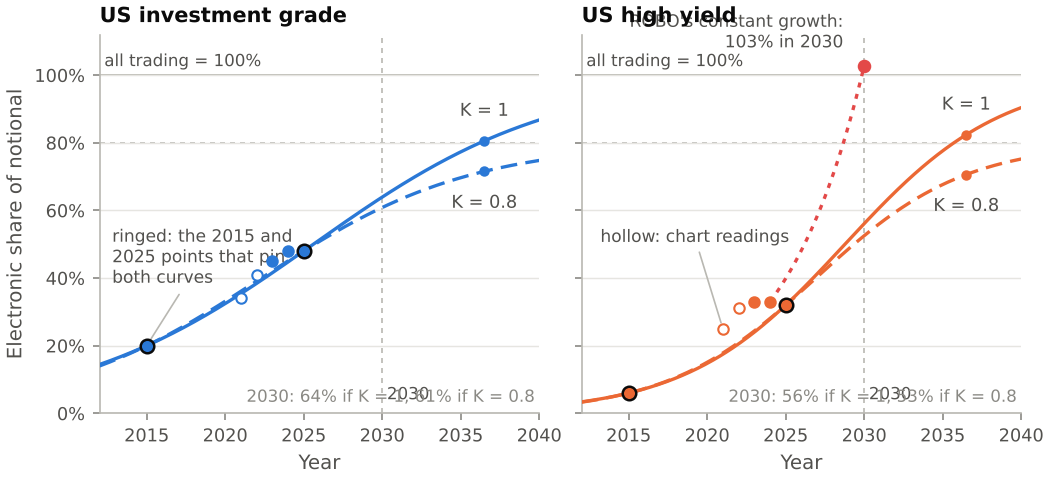
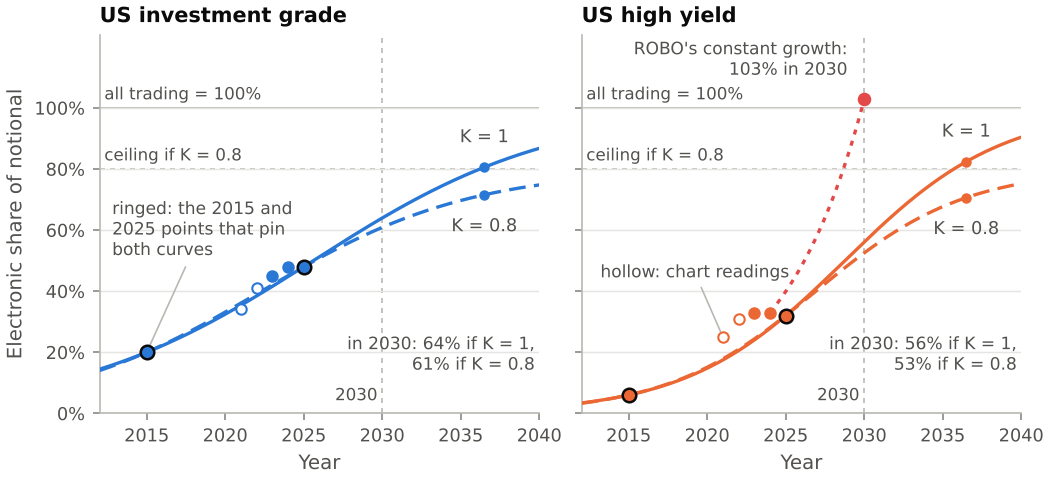
Snapshot: in-flight Edition 2 work
Claude-Session: https://claude.ai/code/session_01PHHQVL5vNoxjdDFeTkxsPq

diff --git a/tools/figures/ch02.py b/tools/figures/ch02.py
@@ -42,6 +42,11 @@ OLD_COST, NEW_COST = VIOLET, GREEN
 LEADER = dict(arrowstyle="-", color=NEUTRAL, linewidth=0.8, shrinkA=1, shrinkB=3)
 
 
+def matplotlib_fixed(days):
+    from matplotlib.ticker import FixedLocator
+    return FixedLocator([mdates.date2num(pd.Timestamp(x)) for x in days])
+
+
 def pct(x, _pos=None):
     return f"{100 * x:.0f}%"
 
@@ -78,7 +83,8 @@ def fig_trace_censoring_pareto():
         ax.set_xticks(ticks)
         ax.set_title(name)
         ax.set_xlabel("True trade size ($mm)")
-        note(ax, f"Pareto tail index α = {alpha:.2f} (below 2:\ninfinite variance)", loc="lower right")
+        ax.text(0.99, 0.19, f"Pareto tail index α = {alpha:.2f}\n(below 2: infinite variance)", transform=ax.transAxes,
+                ha="right", va="bottom", fontsize=8, color=INK_2)
         ax.yaxis.set_major_formatter(FuncFormatter(pct))
     axs[0].set_ylabel("Share of capped prints larger")
     return finish(fig, "ch02_trace_censoring_pareto")
@@ -125,8 +131,9 @@ def fig_adoption_ceiling():
         ax.axhline(1.0, color=NEUTRAL, linewidth=0.9, zorder=1)
         ax.text(2012.3, 1.015, "all trading = 100%", fontsize=8, color=INK_2, ha="left", va="bottom")
         ax.axhline(0.8, color=NEUTRAL, linewidth=0.8, linestyle=(0, (3, 3)), zorder=1)
+        ax.text(2012.3, 0.815, "ceiling if K = 0.8", fontsize=8, color=INK_2, ha="left", va="bottom")
         ax.axvline(2030, color=NEUTRAL, linewidth=0.8, linestyle=(0, (3, 3)), zorder=1)
-        ax.text(2030.3, 0.03, "2030", fontsize=8, color=INK_2, ha="left", va="bottom")
+        ax.text(2029.7, 0.03, "2030", fontsize=8, color=INK_2, ha="right", va="bottom")
         for K, ls in ((1.0, "-"), (0.8, (0, (5, 2.5)))):
             r, t0, _ = chk[(seg, K)]
             ax.plot(t, logistic(t, K, r, t0), color=col, linewidth=LW, linestyle=ls, zorder=3)
@@ -144,12 +151,14 @@ def fig_adoption_ceiling():
             ax.annotate(txt, (2036.5, y), xytext=(0, dy), textcoords="offset points", ha="center",
                         va="bottom" if dy > 0 else "top", fontsize=8.5, color=INK_2)
         ax.set_xlim(2012, 2040)
-        ax.set_ylim(0, 1.12)
+        ax.set_ylim(0, 1.24)
+        ax.set_yticks([0, 0.2, 0.4, 0.6, 0.8, 1.0])
         ax.set_xticks([2015, 2020, 2025, 2030, 2035, 2040])
         ax.set_title(name)
         ax.yaxis.set_major_formatter(FuncFormatter(pct))
         r1, r8 = chk[(seg, 1.0)][2], chk[(seg, 0.8)][2]
-        note(ax, f"2030: {100 * r1:.0f}% if K = 1, {100 * r8:.0f}% if K = 0.8", loc="lower right")
+        ax.text(0.99, 0.10, f"in 2030: {100 * r1:.0f}% if K = 1,\n{100 * r8:.0f}% if K = 0.8", transform=ax.transAxes,
+                ha="right", va="bottom", fontsize=8.2, color=INK_2)
         ax.set_xlabel("Year")
     axs[0].set_ylabel("Electronic share of notional")
     # ROBO's constant-growth rule, high yield only
@@ -157,12 +166,12 @@ def fig_adoption_ceiling():
     tr = np.linspace(2024, 2030, 60)
     ax.plot(tr, robo(tr), color=RED, linewidth=LW, linestyle=(0, (1.5, 2)), zorder=4)
     ax.plot([2030], [robo(2030)], "o", color=RED, markersize=5.5, zorder=6)
-    ax.annotate("ROBO's constant growth:\n103% in 2030", (2030, robo(2030)), xytext=(-10, 6),
+    ax.annotate("ROBO's constant growth:\n103% in 2030", (2030, robo(2030)), xytext=(-8, 9),
                 textcoords="offset points", ha="right", va="bottom", fontsize=8.2, color=INK_2)
     # note on the fitted points
-    axs[0].annotate("ringed: the 2015 and\n2025 points that pin\nboth curves", (2015, .20), xytext=(2012.8, 0.46),
+    axs[0].annotate("ringed: the 2015 and\n2025 points that pin\nboth curves", (2015, .20), xytext=(2012.8, 0.60),
                     textcoords="data", ha="left", va="center", fontsize=8.2, color=INK_2, arrowprops=LEADER)
-    axs[1].annotate("hollow: chart readings", (2021, .25), xytext=(2013.2, 0.52), textcoords="data",
+    axs[1].annotate("hollow: chart readings", (2021, .25), xytext=(2013.2, 0.46), textcoords="data",
                     ha="left", va="center", fontsize=8.2, color=INK_2, arrowprops=LEADER)
     return finish(fig, "ch02_adoption_ceiling")
 
@@ -185,11 +194,11 @@ def fig_rfq_neff():
     axl.text(12.4, 11.3, "independent dealers:\nn_eff = n", ha="left", va="center", fontsize=8.2, color=INK_2)
     for phi, col in shade.items():
         axl.plot(n, neff(n, phi), color=col, linewidth=LW, zorder=3)
-        axl.axhline(1 / phi, color=col, linewidth=0.8, linestyle=(0, (1.5, 2.5)), zorder=1)
+        axl.plot([0.5, 20], [1 / phi, 1 / phi], color=col, linewidth=0.8, linestyle=(0, (1.5, 2.5)), zorder=1)
         label_end(axl, 20, neff(20, phi), f"φ = {phi:g}", col, dx=5)
     axl.text(1.0, 10.15, "ceiling 1/φ = 10", fontsize=8, color=INK_2, ha="left", va="bottom")
-    axl.text(1.0, 4.15, "ceiling 1/φ = 4", fontsize=8, color=INK_2, ha="left", va="bottom")
-    axl.text(1.0, 2.37, "ceiling 1/φ = 2.2", fontsize=8, color=INK_2, ha="left", va="bottom")
+    axl.text(12.5, 4.15, "ceiling 1/φ = 4", fontsize=8, color=INK_2, ha="left", va="bottom")
+    axl.text(12.5, 2.35, "ceiling 1/φ = 2.2", fontsize=8, color=INK_2, ha="left", va="bottom")
     axl.plot([11], [2.0], "o", color=shade[0.45], markersize=6.5, zorder=6, markeredgecolor=INK, markeredgewidth=1.0)
     axl.annotate("Theo's 11 responders at\nφ = 0.45 are worth 2", (11, 2.0), xytext=(6.3, 0.62),
                  textcoords="data", ha="left", va="center", fontsize=8.2, color=INK_2, arrowprops=LEADER)
@@ -210,15 +219,15 @@ def fig_rfq_neff():
     assert abs(up0 - 2.0) < 1e-9 and abs(up45 - 1.085) < 0.001
     axr.text(11.2, 0.30, f"independent: halving the\nresponders doubles the\nbest quote's distance (×{up0:.1f})",
              ha="left", va="center", fontsize=8.2, color=INK_2)
-    axr.text(8.5, 0.74, f"φ = 0.45: it moves {100 * (up45 - 1):.0f}%,\nthe same θ and φ",
+    axr.text(8.5, 0.68, f"φ = 0.45: it moves {100 * (up45 - 1):.0f}%,\nthe same θ and φ",
              ha="left", va="center", fontsize=8.2, color=INK_2)
-    axr.annotate("9 Apr 2025: 13.2 to 6.6\nprices per RFQ", (n_lo, best(n_lo, 0)), xytext=(2.4, 0.05),
-                 textcoords="data", ha="left", va="bottom", fontsize=8.2, color=INK_2, arrowprops=LEADER)
+    axr.text(7.0, 0.93, "dots: 13.2 and 6.6 prices per RFQ\n(US high grade, 9 Apr 2025)", ha="left", va="center",
+             fontsize=8.2, color=INK_2)
     axr.set_xlim(0.5, 20)
     axr.set_ylim(0, 1.05)
     axr.set_xticks([1, 5, 10, 15, 20])
     axr.set_xlabel("Dealers responding, n")
-    axr.set_ylabel("Expected best quote ÷ θ (average quote distance)")
+    axr.set_ylabel("Expected best quote ÷ θ")
     return finish(fig, "ch02_rfq_neff")
 
 
@@ -248,11 +257,10 @@ def fig_data_exhaust_curve():
         to_star, a_star = peaks[c_bp]
         ax.plot([to_star, to_star], [0, a_star], color=col, linewidth=0.9, linestyle=(0, (3, 3)), zorder=3)
         ax.plot([to_star], [a_star], "o", color=col, markersize=6.5, zorder=6, markeredgecolor=INK, markeredgewidth=0.8)
-    ax.annotate("c = 12 bp: best is 4.0 turns a year,\n48 bp of net alpha", (4.0, 48.0), xytext=(7.0, 12),
+    ax.annotate("c = 12 bp: best is 4.0 turns,\n48 bp of net alpha", (4.0, 48.0), xytext=(4.7, 16),
                 textcoords="data", ha="left", va="center", fontsize=8.5, color=INK_2, arrowprops=LEADER)
     ax.annotate("c = 7.5 bp: best is 10.2 turns,\n77 bp of net alpha", (10.24, 76.8), xytext=(11.0, 108),
                 textcoords="data", ha="left", va="center", fontsize=8.5, color=INK_2, arrowprops=LEADER)
-    ax.plot([8.4], [12], "o", color=OLD_COST, markersize=0)       # (anchor for layout only; invisible)
     ax.annotate("", xy=(10.0, 70.5), xytext=(4.25, 51.0),
                 arrowprops=dict(arrowstyle="-|>", color=INK_2, linewidth=1.1, mutation_scale=9, shrinkA=0, shrinkB=0))
     ax.text(1.0, 98, "cutting the cost from 12 to 7.5 bp\nmultiplies the best turnover by 2.56\nand the net alpha by 1.6",
@@ -261,10 +269,6 @@ def fig_data_exhaust_curve():
     ax.set_ylim(-14, 175)
     ax.set_xlabel("Turnover (one-way turns of the book per year)")
     ax.set_ylabel("Alpha (bp per year)")
-    # direct labels for the two net-alpha curves, at the right edge
-    for c_bp, col, xx in ((12.0, OLD_COST, 16.2), (7.5, NEW_COST, 16.2)):
-        yy = (k * np.sqrt(xx) * 1e4) - c_bp * xx
-        label_end(ax, xx, yy, f"net, c = {c_bp:g} bp", col, dx=5, dy=-5 if c_bp == 12 else 5)
     note(ax, "k = 0.0048", loc="upper left")
     return finish(fig, "ch02_data_exhaust_curve")
 
@@ -297,7 +301,8 @@ def fig_two_shocks_timeline():
     for ax, (a, b), events, title, loc, fmt in (
             (axs[0], ("2020-02-18", "2020-07-31"), ev20, "March 2020", mdates.MonthLocator(), "%-d %b"),
             (axs[1], ("2025-03-31", "2025-05-14"), ev25, "April 2025",
-             mdates.DayLocator(bymonthday=[1, 8, 15, 22, 29]), "%-d %b")):
+             matplotlib_fixed(["2025-04-01", "2025-04-08", "2025-04-15", "2025-04-22", "2025-04-29", "2025-05-06",
+                               "2025-05-13"]), "%-d %b")):
         seg = s[(s.index >= a) & (s.index <= b)]
         ax.plot(seg.index, seg.values, color=IG, linewidth=LW, zorder=3)
         ax.set_xlim(d(a), d(b))

diff --git a/tools/figures/ch07.py b/tools/figures/ch07.py
@@ -81,7 +81,7 @@ def fig_ffd_weights():
     a.text(K04 * 1.08, 1.6e-6, f"lag {K04}", fontsize=8, color=INK_2, va="bottom", ha="left")
     for d, col in ds:
         label_end(a, n, np.abs(ffd_weights(d, n))[n], f"d = {d:g}", col, dx=5)
-    note(a, "d = 0.4 meets \u03c4 at lag 282:\nthe 280-day warm-up of section 7.3", loc="lower left")
+    note(a, "d = 0.4 meets \u03c4 at lag 282:\nthe 280-day warm-up", loc="lower left")
     a.set_xlim(1, 5000)
     a.set_ylim(1e-6, 2)
     a.set_xticks([1, 10, 100, 1000])
@@ -106,8 +106,8 @@ def fig_ffd_weights():
                arrowprops=dict(arrowstyle="-", color=MUTED, linewidth=0.7))
     for d, col in ds:
         s = np.cumsum(ffd_weights(d, n))
-        label_end(b, n, s[n], f"d = {d:g}", col, dx=5, dy=(4 if d == 0.6 else 0))
-    b.text(1.4, 0.03, "d = 1: nothing left after one lag", fontsize=8, color=INK_2, va="bottom", ha="left")
+        label_end(b, n, s[n], f"d = {d:g}", col, dx=5, dy={0.2: 0, 0.4: 9, 0.6: 3}[d])
+    b.text(1.4, 0.03, "d = 1: none left", fontsize=8, color=INK_2, va="bottom", ha="left")
     b.set_xlim(1, 5000)
     b.set_ylim(-0.04, 0.85)
     b.set_xticks([1, 10, 100, 1000])
@@ -249,9 +249,10 @@ def fig_purged_folds():
     b.text(L / 2, 25.5, "test block:\nset aside", fontsize=8, color=INK_2, ha="center", va="center")
     b.annotate("", xy=(T1, len(fs) - 0.2), xytext=(T1 + ETA, len(fs) - 0.2),
                arrowprops=dict(arrowstyle="<->", color=INK_2, linewidth=0.9, shrinkA=0, shrinkB=0))
-    b.text(T1 + ETA / 2, len(fs) + 0.15, "embargo η: the FFD window,\nabout 280 days at τ = 10⁻⁴", fontsize=8, color=INK_2,
-           ha="center", va="top")
-    b.set_ylim(len(fs) + 2.7, -2.2)
+    b.text(T1 + ETA / 2, len(fs) + 0.9, "embargo η: the FFD window,\nabout 280 days at τ = 10⁻⁴", fontsize=8, color=INK_2,
+           ha="center", va="top", zorder=6,
+           bbox=dict(facecolor="white", edgecolor="none", pad=1.5))
+    b.set_ylim(len(fs) + 7.6, -2.2)
     b.set_xlim(-46, 136)
     b.set_yticks([])
     b.set_xticks([-40, 0, 40, 80, 120])
@@ -300,7 +301,7 @@ def fig_dsr_noise_max():
     ax.plot(Ns, curve, color=C_FIX, zorder=3)
     ax.plot(sim_N, sim, "o", color=INK_2, markersize=5, markerfacecolor="white", markeredgewidth=1.2, zorder=4)
     ax.set_axisbelow(True)
-    ax.text(2.4, 0.04, "what pure noise delivers\nbefore the model has done anything", fontsize=8.5, color=INK_2,
+    ax.text(4.0, 0.04, "what pure noise delivers\nbefore the model has done anything", fontsize=8.5, color=INK_2,
             ha="left", va="bottom")
 
     for n, txt, xt, yt, ha in [(400, "N = 400 effectively distinct trials", 360, 0.27, "right"),
@@ -321,8 +322,8 @@ def fig_dsr_noise_max():
     ax.xaxis.set_major_formatter(FuncFormatter(lambda v, _: f"{v:,.0f}"))
     ax.set_xlabel("Number of trials N (log scale)")
     ax.set_ylabel("Expected best Sharpe of pure noise\n(annualized)")
-    ax.text(0.99, 0.02, "T = 240 months; true Sharpe 0 for every trial; open dots: simulated mean of the maximum",
-            transform=ax.transAxes, ha="right", va="bottom", fontsize=7.5, color=MUTED)
+    ax.text(0.99, 0.98, "T = 240 months; every trial has true Sharpe 0.\nOpen dots: simulated mean of the maximum.",
+            transform=ax.transAxes, ha="right", va="top", fontsize=8, color=MUTED)
     print("dsr: SR*(3000) %.3f/month %.3f annualized; SR*(400) %.3f; sim dots %s | formula at sim_N %s" % (
         sr_star(3000, T), sr_star(3000, T) * ann, sr_star(400, T), [round(s, 3) for s in sim],
         [round(float(sr_star(n, T)) * ann, 3) for n in sim_N]))
@@ -337,8 +338,8 @@ def fig_reversal_gap():
     # (state/research/papers_factor_replication_crisis_and_bond_data.md section 3.2).
     prem = [-0.99, -0.09, -0.17]
     tstat = [-4.46, -0.51, None]
-    names = ["Month-end price in\nsignal and return", "Signal gap\n(signal 1–10 days earlier)",
-             "Return gap\n(month-begin start)"]
+    names = ["Textbook:\nmonth-end price\nin both", "Signal gap:\nsignal 1\u201310 days\nbefore month-end",
+             "Return gap:\nreturn starts at\nmonth-begin"]
     cols = [C_NAIVE, C_FIX, C_FIX]
 
     fig, (a, b) = new_figure("wide", ncols=2, gridspec_kw={"width_ratios": [1.35, 1]})

diff --git a/tools/figures/ch03.py b/tools/figures/ch03.py
@@ -5,8 +5,8 @@ Run:  python3 tools/figures/ch03.py [name ...]   -> assets/figures/ch03_*.png   
   1. ch03_mixture_vs_gaussian    the three-scenario mixture of 3.1.2 against a normal with the same mean and sd
   2. ch03_gm_half_spread         the asymmetric Glosten-Milgrom half-spread of 3.2.1, against pi and against q, with Serta's point
   3. ch03_hand_replayed          Theo's Friday (3.3.5) as a waterfall of the winner's five-day markout, raw and IDO
-  4. ch03_svb_filings_timeline   the seven SVB Financial 8-Ks of March 2023 with EDGAR acceptance times, plus Monday 13 March zoomed
-  5. ch03_cusum_detector         Page's CUSUM (3.5) on one simulated tranche, at two PRS thresholds
+  4. ch03_svb_filings_timeline   the seven SVB Financial 8-Ks of March 2023 at their EDGAR acceptance times, with the events around them and the drill
+  5. ch03_cusum_detector         Page's CUSUM (3.6.2, eq. 3.5) on one simulated tranche, at two PRS thresholds
 
 Data. Real: the SVB Financial Group 8-K dates, items and EDGAR acceptance times of figure 4 (data.sec.gov submissions for CIK 719739,
 cached in tools/figures/data/ch03_svb_8k_filings.csv; filing text spot-checked on sec.gov), and the dated events around them from the
@@ -90,7 +90,7 @@ def fig_mixture_vs_gaussian():
     ax.text(102.6, top - 0.0006, "clean refinancing:\n55% of the mass in\na spike at 100 (its\npeak, 0.44, is off\nthe chart)",
             ha="left", va="top", fontsize=8, color=INK_2, linespacing=1.25)
     # hump labels
-    ax.text(64, 0.0205, "distressed\nexchange, 25%", ha="right", va="bottom", fontsize=8, color=INK_2, linespacing=1.2)
+    ax.text(70, 0.0196, "distressed\nexchange, 25%", ha="center", va="bottom", fontsize=8, color=INK_2, linespacing=1.2)
     ax.text(45, 0.0105, "Chapter 11\n20%", ha="center", va="bottom", fontsize=8, color=INK_2, linespacing=1.2)
     # the mean
     ax.text(mean - 1.2, 0.0332, "price = mean = 81.5", ha="right", va="center", fontsize=8.3, color=INK_2)
@@ -179,7 +179,8 @@ def fig_hand_replayed():
     issuer = (ido_ref - MID)                                       # -5.52
     theo = ido_ref - THEO                                          # -4.02
     assert abs(sysmove + 0.48) < 0.01 and abs(ido + 4.27) < 0.01 and abs(theo + 4.02) < 0.01
-    assert abs(capture + issuer + sysmove - raw) < 1e-9 or True
+    assert abs(capture + issuer + sysmove - raw) < 1e-9          # the waterfall sums to the raw markout
+    assert abs(capture + issuer - ido) < 1e-9                    # and IDO = capture + issuer-specific drift
     bp = lambda pts, base: pts / base * 1e4
     print(f"  systematic {sysmove:.2f}; issuer-specific {issuer:.2f}; raw {raw:.2f}; IDO {ido:.2f} ({bp(ido, FILL):.0f}bp); "
           f"Theo counterfactual {theo:.2f} ({bp(theo, THEO):.0f}bp)")
@@ -225,7 +226,7 @@ def fig_hand_replayed():
 
 
 # --------------------------------------------------------------------------------------------------
-# Figure 3.4 (3.4): four business days of 8-Ks.
+# Figure 3.4 (3.4): the fortnight of SVB 8-Ks, one row per event.
 # --------------------------------------------------------------------------------------------------
 def load_svb_filings():
     path = os.path.join(ROOT, "tools", "figures", "data", "ch03_svb_8k_filings.csv")
@@ -358,7 +359,7 @@ def fig_cusum_detector():
                     ha="left", va="center", fontsize=8.3, color=INK_2, linespacing=1.25,
                     arrowprops=dict(arrowstyle="-", color=MUTED, lw=0.7, shrinkA=2, shrinkB=5))
     aS.set_ylim(0, top)
-    aS.set_xlim(0, NS + 1)
+    aS.set_xlim(0, NS + 7)                                 # room on the right for the alarm labels
     aS.set_ylabel("CUSUM tally $S_t$")
     aS.set_xlabel("Trading day")
     aS.set_yticks(list(range(0, int(top) + 1, 2)))

diff --git a/tools/figures/ch04.py b/tools/figures/ch04.py
@@ -117,8 +117,8 @@ def fig_truncation_bias():
     a.set_ylabel("Density")
     a.yaxis.set_major_formatter(lambda v, _: f"{v:.1f}")
     # balance points, magnified on an inset: they sit only 0.027 sigma apart
-    ins = a.inset_axes([0.63, 0.58, 0.365, 0.26])
-    ins.set_xlim(-0.034, 0.054)
+    ins = a.inset_axes([0.65, 0.58, 0.345, 0.26])
+    ins.set_xlim(-0.037, 0.054)
     ins.set_ylim(0, 1)
     ins.grid(False)
     ins.set_yticks([])
@@ -128,7 +128,7 @@ def fig_truncation_bias():
     ins.plot([0], [0.16], "^", color=INK_2, markersize=8, clip_on=False, zorder=4)
     ins.plot([0.027], [0.16], "^", color=BLUE, markersize=8, clip_on=False, zorder=4)
     ins.text(0.004, 0.42, "before", ha="right", va="bottom", fontsize=8, color=INK_2)
-    ins.text(0.023, 0.42, "after", ha="left", va="bottom", fontsize=8, color=INK_2)
+    ins.text(0.022, 0.42, "after", ha="left", va="bottom", fontsize=8, color=INK_2)
     ins.set_title("the mean,\nmagnified (σ)", fontsize=8, color=INK_2, fontweight="normal", pad=3, linespacing=1.1)
 
     # (b) the manufactured premium against the fraction deleted

diff --git a/book_src/04_ch04d_getting_the_seat.md b/book_src/04_ch04d_getting_the_seat.md
@@ -259,7 +259,7 @@ The third task was cross-validation for a model predicting bond returns: purged,
 
 Theo's afternoon ended at four. The researcher's ended at 6:20, and most of what happened in between was a web form. The applicant-tracking system wanted four scores from one to four (probability, estimation, coding, communication), a recommendation from a drop-down (*strong no, no, yes, strong yes*), and a free-text box that could not be left empty and could not exceed 1,500 characters. She wrote 1,488. She gave the join a 2 and then changed it to a 3, because he had found the bug himself once asked the right question, and the rubric said "recovers from error with prompting" was a 3. She spent eleven minutes on whether "communication" meant how he spoke or how he wrote his code, decided it meant both, and averaged. At 5:40 the system logged her out for inactivity while she was looking up how many firms print a block a day, to check that her own folder was right, and she retyped the box from memory. Thursday at 5:30 there would be a calibration meeting, where four interviewers would discover that one colleague's 3 was everyone else's 2 and spend forty minutes on it. Nobody would mention the tomato timer. It was, she thought, the best-calibrated instrument in the building.
 
-Theo later wrote his own drill set from the week, partly to stop replaying the join in his head. The problem it solves is the one every candidate has after a week like this: the games are learnable, but only by doing them under a clock with an answer key you did not write after seeing the question. `interview_drills.py` is a seeded generator of the §4D.2–§4D.7 puzzles. Each drill draws its inputs from a small menu with a random-number generator fixed by a seed, so a session can be repeated exactly and a different seed gives new numbers to keep you from memorizing answers. Each drill returns three things: the question as text, the answer computed from the formula in its home section, and a checker that accepts a reply within a tolerance suited to mental math (half a point of probability, a quarter of a point of price, ten thousand dollars of size). The answer key is the formula, not a stored number, which is the design choice that makes the drills trustworthy. The inputs are a seed and a count; the output is a list of (question, answer, checker) triples, and running the file checks the chapter's own anchors before printing a session: 25% and 19.2% for §4D.2, 64 for §4D.3, 0.926 for §4D.5, \$25.9mm for the stop, \$26.7mm for the DTS short, and the 4-B DV01.
+Theo later wrote his own drill set from the week, partly to stop replaying the join in his head. The problem it solves is the one every candidate has after a week like this: the games are learnable, but only by doing them under a clock with an answer key you did not write after seeing the question. `interview_drills.py` is a seeded generator of the §4D.2–§4D.7 puzzles. Each drill draws its inputs from a small menu with a random-number generator fixed by a seed, so a session can be repeated exactly and a different seed gives new numbers to keep you from memorizing answers. Each drill returns three things: the question as text, the answer computed from the formula in its home section, and a checker that accepts a reply within a tolerance suited to mental math (half a point of probability, a quarter of a point of price, a tenth of a million dollars of size). The answer key is the formula, not a stored number, which is the design choice that makes the drills trustworthy. The inputs are a seed and a count; the output is a list of (question, answer, checker) triples, and running the file checks the chapter's own anchors before printing a session: 25% and 19.2% for §4D.2, 64 for §4D.3, 0.926 for §4D.5, \$25.9mm for the stop, \$26.7mm for the DTS short, and the 4-B DV01.
 
 It is for speed and for catching this chapter's slips: the second sale treated as the first, the forgotten rate, the duration ruler where DTS was asked. It will not teach judgment. No drill asks "which measure?" in a form a checker can grade, and the pitch of §4D.10 has no answer key at all. The edge case that bites is the Kelly drill when there is no edge. If the default probability exceeds $c/(c+L)$, the formula returns a negative fraction, and a naive drill would ask you to "size" a short you never chose to make; this one returns `None`, meaning *no bet*, and the checker expects you to say so. The listing is [Listing 4-D.1 in Appendix F](#code-4D-1).
 
@@ -547,7 +547,7 @@ He looked at the column and saw it was one test in six costumes: how do you lose
 
 ### The Spec You Hand the Robot
 
-*Vague version:* "Help me practice for quant credit interviews." *What ROBO built:* sixty questions with the answers printed directly beneath each one, as asked. *The precise version:* "Implement `interview_drills.py` per §4D.8. Six drill families (measure, Glosten–Milgrom posterior, Kelly, stop size, hedge rulers, DV01), each returning (question, answer, checker). Inputs drawn from fixed menus by `random.Random(seed)`; the same seed reproduces a session. Answers computed from the home-section formula, never stored. Tolerances: 0.005 in probability, 0.25 points in price, \$0.1mm in size, 5% in DV01. Kelly returns `None` when $(1-q_D)c \le q_D L$. On import, assert the chapter's anchors (25%, 19.2%, 64, 0.926, \$25.9mm, \$26.7mm, 8,790)."
+*Vague version:* "Help me practice for quant credit interviews." *What ROBO built:* sixty questions with the answers printed directly beneath each one, as asked. *The precise version:* "Implement `interview_drills.py` per §4D.8. Six drill families (measure, Glosten–Milgrom posterior, Kelly, stop size, hedge rulers, DV01), each returning (question, answer, checker). Inputs drawn from fixed menus by `random.Random(seed)`; the same seed reproduces a session. Answers computed from the home-section formula, never stored. Tolerances: 0.005 in probability, 0.25 points in price, \$0.1mm in size, 5% in DV01. Kelly returns `None` when $(1-q_D)c \le q_D L$. Run as a script, assert the chapter's anchors (25%, 19.2%, 64, 0.926, \$25.9mm, \$26.7mm, 8,790)."
 
 ### Exercises
 

diff --git a/book_src/27_ch27_system_architecture_and_asics.md b/book_src/27_ch27_system_architecture_and_asics.md
@@ -946,7 +946,7 @@ If only one item gets your commute, it is Brian Nigito on multicast: why electro
 
 **Podcasts**
 
-- **"Inside Hudson River Trading's Blistering Token Burn"** (Bloomberg *Odd Lots*, 2026-06-05; the earlier episode, "How Hudson River Trading Actually Uses AI" with Iain Dunning, is 2025-10-31). A major market maker on token spend per employee, compute and memory bottlenecks and possible in-house chips: a firm's infrastructure budget and constraints, told aloud, for §27.6 and §27.8. https://omny.fm/shows/odd-lots/inside-hudson-river-tradings-blistering-token-burn ; https://omny.fm/shows/odd-lots/how-hudson-river-trading-actually-uses-ai
+- **"Inside Hudson River Trading's Blistering Token Burn"** (Bloomberg *Odd Lots*, 2026-06-05, feed date; the earlier episode, "How Hudson River Trading Actually Uses AI" with Iain Dunning, is 2025-10-31). A major market maker on token spend per employee, compute and memory bottlenecks and possible in-house chips: a firm's infrastructure budget and constraints, told aloud, for §27.6 and §27.8. https://omny.fm/shows/odd-lots/inside-hudson-river-tradings-blistering-token-burn ; https://omny.fm/shows/odd-lots/how-hudson-river-trading-actually-uses-ai
 - **"Angana Jacob - Data as the True Competitive Moat (S7E26)"** (*Flirting with Models*, 2026-02-09). Data "sourced, cleaned, standardized, linked, and delivered" is the moat once models commoditise: the audio case for the provenance rule (§27.2.2) and the security master (§27.3). https://www.flirtingwithmodels.com/episodes/DLtqprallYi
 - **"Multicast and the markets with Brian Nigito"** (*Signals and Threads*, Jane Street, 2020-09-23). Why electronic exchanges rely on single-threaded programs and multicast networking, from a veteran of early electronic exchanges; the feed handler's world for §27.2.1 and the single-writer logic behind §27.4. https://signalsandthreads.com/multicast-and-the-markets/
 - **"Programmable hardware with Andy Ray"** (*Signals and Threads*, Ron Minsky with Andy Ray of Jane Street, 2020-09-09). FPGAs, hardware tooling and "the economics of FPGAs": the best audio primer for the trigger-table section (§27.6) and the build-versus-buy of hardware. https://signalsandthreads.com/programmable-hardware/
